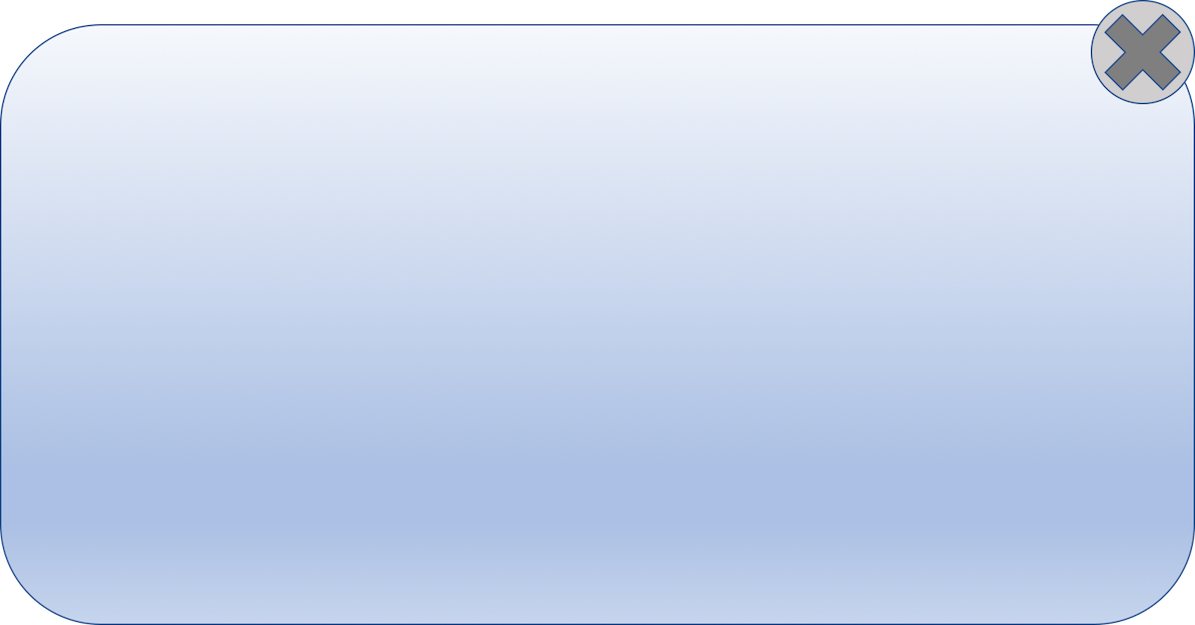
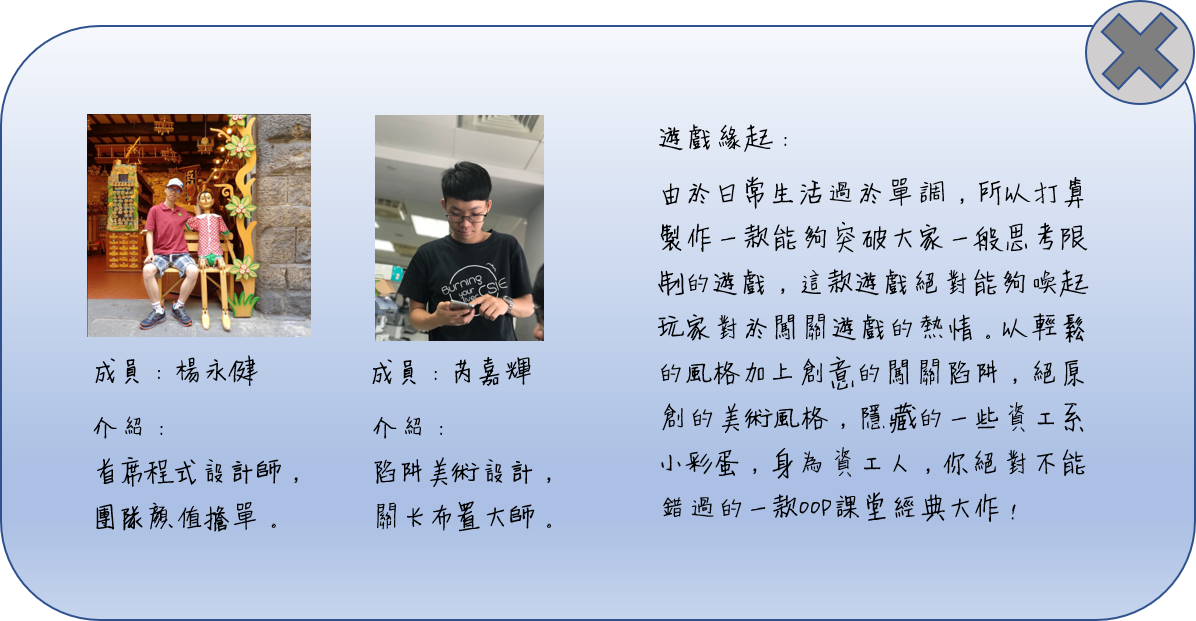
AboutScreen finish

diff --git a/js/AboutScreen.js b/js/AboutScreen.js
@@ -17,57 +17,19 @@ var AboutScreen = Framework.exClass(Framework.GameMainMenu,
         loadingProgress: function (ctx, requestInfo) 
         {
             //console.log(Framework.ResourceManager.getFinishedRequestPercent())
-            this.loading.draw(ctx);
-            ctx.font = '90px Arial';
-            ctx.textAlign = 'center';
-            ctx.fillStyle = 'white';
-            ctx.fillText(Math.round(requestInfo.percent) + '%', ctx.canvas.width / 2, ctx.canvas.height / 2 + 300);
+            this.loading.draw(ctx)
+            ctx.font = '90px Arial'
+            ctx.textAlign = 'center'
+            ctx.fillStyle = 'white'
+            ctx.fillText(Math.round(requestInfo.percent) + '%', ctx.canvas.width / 2, ctx.canvas.height / 2 + 300)
         },
         
         load: function () {
             this.matter = new Framework.Matter() 
 
-            this.backYellowGround = new Framework.Sprite(define.imagePath + 'background-yellow.png');
-            this.backGround = new Framework.Sprite(define.imagePath + 'background-AboutScreen.png');
-            // this.bagTitle = new Framework.Sprite(define.imagePath + 'bagTitlepic.png');
-            
-            this.lv1_clear = new Framework.Sprite(define.imagePath + 'clear.png');
-            this.lv1_unclear = new Framework.Sprite(define.imagePath + 'unclear.png');
-
-            this.lv2_clear = new Framework.Sprite(define.imagePath + 'clear.png');
-            this.lv2_unclear = new Framework.Sprite(define.imagePath + 'unclear.png');
-
-            this.lv3_clear = new Framework.Sprite(define.imagePath + 'clear.png');
-            this.lv3_unclear = new Framework.Sprite(define.imagePath + 'unclear.png');
-        
-            this.lv1Clear = false
-            this.lv2Clear = false
-            this.lv3Clear = false
-
-
-            this.txt_GoldSwordAtk = new Textbox()
-            this.txt_GoldSwordAtk._width = 60
-            this.txt_GoldSwordAtk._height = 0
-            this.txt_GoldSwordAtk._fontColor = 'black'
-            this.txt_GoldSwordAtk.position = {x:590, y:415}
-
-            this.txt_GoldSwordCount = new Textbox()
-            this.txt_GoldSwordCount._width = 60
-            this.txt_GoldSwordCount._height = 0
-            this.txt_GoldSwordCount._fontColor = 'black'
-            this.txt_GoldSwordCount.position = {x:590, y:480}
-
-            this.txt_KeyboardSwordAtk = new Textbox()
-            this.txt_KeyboardSwordAtk._width = 60
-            this.txt_KeyboardSwordAtk._height = 0
-            this.txt_KeyboardSwordAtk._fontColor = 'black'
-            this.txt_KeyboardSwordAtk.position = {x:590, y:545}
-
-            this.txt_KeyboardSwordCount = new Textbox()
-            this.txt_KeyboardSwordCount._width = 60
-            this.txt_KeyboardSwordCount._height = 0
-            this.txt_KeyboardSwordCount._fontColor = 'black'
-            this.txt_KeyboardSwordCount.position = {x:590, y:610}
+            this.backYellowGround = new Framework.Sprite(define.imagePath + 'background-yellow.png')
+            this.backGround = new Framework.Sprite(define.imagePath + 'background-AboutScreen.png')
+            this.AboutTitle = new Framework.Sprite(define.imagePath + 'AboutScreen-Title.png')
         },
 
 
@@ -79,31 +41,27 @@ var AboutScreen = Framework.exClass(Framework.GameMainMenu,
             this.backYellowGround.position = {
                 x: 0,
                 y: 0
-            };
-            this.backYellowGround.scale = 5;
+            }
+            this.backYellowGround.scale = 5
 
-            //背包框架
+            //框架
             this.backGround.position = {
                 x: Framework.Game.getCanvasWidth() / 8,
-                y: Framework.Game.getCanvasHeight() / 8
-            };
-            this.backGround.scale = 1;
+                y: Framework.Game.getCanvasHeight() / 8 + 80
+            }
+            this.backGround.scale = 1
+
+            //標題
+            this.AboutTitle.position =
+            {
+                x: Framework.Game.getCanvasWidth() / 5 - 30,
+                y: Framework.Game.getCanvasHeight() / 10 - 50
+            }
 
 
-            this.rootScene.attach(this.backYellowGround);
-            this.rootScene.attach(this.backGround);
-
-            
-
-            this.rectPosition = {
-                x: Framework.Game.getCanvasWidth() / 2 - 130,
-                y: Framework.Game.getCanvasHeight() / 2
-            };
-
-            //#region 關卡是否通關
-            
-            //#endregion
-            
+            this.rootScene.attach(this.backYellowGround)
+            this.rootScene.attach(this.backGround)
+            this.rootScene.attach(this.AboutTitle)
         },
 
         update: function () {
@@ -133,112 +91,14 @@ var AboutScreen = Framework.exClass(Framework.GameMainMenu,
         },
 
         click: function (e) {
-            console.log(e.x + " " + e.y)
             // 點擊關閉(返回關卡選單)
-            if (e.x >= 1275 && 
-                e.x <= 1390 && 
-                e.y >= 115 && 
-                e.y <= 230) 
+            if (e.x >= 1283 && 
+                e.x <= 1393 && 
+                e.y >= 190 && 
+                e.y <= 295) 
             {
                 Framework.Game.goToLevel("myMenu")
             }
-
-            //#region change clear
-            if (e.x >= 520 && 
-                e.x <= 685 && 
-                e.y >= 195 && 
-                e.y <= 240) 
-            {
-                Framework.Game.items[0].item = !(Framework.Game.items[0].item)
-            }
-
-            if (e.x >= 520 && 
-                e.x <= 685 && 
-                e.y >= 255 && 
-                e.y <= 300) 
-            {
-                Framework.Game.items[1].item = !(Framework.Game.items[1].item)
-            }
-
-            if (e.x >= 520 && 
-                e.x <= 685 && 
-                e.y >= 315 && 
-                e.y <= 360) 
-            {
-                Framework.Game.items[2].item = !(Framework.Game.items[2].item)
-            }
-            //#endregion
-       
-            //#region add atk & count
-            if (e.x >= 725 && 
-                e.x <= 765 && 
-                e.y >= 415 && 
-                e.y <= 455 && Framework.Game.goldSwordAtk < 100)
-            {
-                Framework.Game.goldSwordAtk += 5
-                console.log('goldSwordAtk += 5')
-            }
-            else if (e.x >= 780 && 
-                e.x <= 820 && 
-                e.y >= 415 && 
-                e.y <= 455 && Framework.Game.goldSwordAtk > 2)
-            {
-                Framework.Game.goldSwordAtk -= 5
-                console.log('goldSwordAtk -= 5')
-            }
-            //----------------------------------------------------
-            if (e.x >= 725 && 
-                e.x <= 765 && 
-                e.y >= 475 && 
-                e.y <= 515 && Framework.Game.goldSwordCount < 1000)
-            {
-                Framework.Game.goldSwordCount += 10
-                console.log(Framework.Game.goldSwordCount)
-                console.log('goldSwordCount += 10')
-            }
-            else if (e.x >= 780 && 
-                e.x <= 820 && 
-                e.y >= 475 && 
-                e.y <= 515 && Framework.Game.goldSwordCount >= 10)
-            {
-                Framework.Game.goldSwordCount -= 10
-                console.log('goldSwordCount -= 10')
-            }
-            //----------------------------------------------------
-            if (e.x >= 725 && 
-                e.x <= 765 && 
-                e.y >= 540 && 
-                e.y <= 580 && Framework.Game.keyboardAtk < 100)
-            {
-                Framework.Game.keyboardAtk += 5
-                console.log('keyboardAtk += 5')
-            }
-            else if (e.x >= 780 && 
-                e.x <= 820 && 
-                e.y >= 540 && 
-                e.y <= 580 && Framework.Game.keyboardAtk > 2)
-            {
-                Framework.Game.keyboardAtk -= 5
-                console.log('keyboardAtk -= 5')
-            }
-            //----------------------------------------------------
-            if (e.x >= 725 && 
-                e.x <= 765 && 
-                e.y >= 605 && 
-                e.y <= 645 && Framework.Game.keyboardCount < 1000)
-            {
-                Framework.Game.keyboardCount += 10
-                console.log('keyboardCount += 10')
-            }
-            else if (e.x >= 780 && 
-                e.x <= 820 && 
-                e.y >= 605 && 
-                e.y <= 645 && Framework.Game.keyboardCount > 10)
-            {
-                Framework.Game.keyboardCount -= 10
-                console.log('keyboardCount -= 10')
-            }
-            //#endregion
         },
 
         mousemove: function (e) 

diff --git a/js/CheatScreen.js b/js/CheatScreen.js
@@ -141,12 +141,11 @@ var CheatScreen = Framework.exClass(Framework.GameMainMenu,
 
         update: function () {
             //this.rootScene.update();一定要在第一行
-            
+            console.log()
             this.txt_GoldSwordAtk._value = Framework.Game.goldSwordAtk
             this.txt_GoldSwordCount._value = Framework.Game.goldSwordCount
             this.txt_KeyboardSwordAtk._text = Framework.Game.keyboardAtk
             this.txt_KeyboardSwordCount._text = Framework.Game.keyboardCount
-
 
             console.log(this.txt_GoldSwordAtk._value)
             //目前的Framework, 當任何一個GameObject不做attach時, 則必須要自行update
@@ -308,7 +307,7 @@ var CheatScreen = Framework.exClass(Framework.GameMainMenu,
                 e.y <= 455 && Framework.Game.goldSwordAtk < 100)
             {
                 Framework.Game.goldSwordAtk += 5
-                console.log('goldSwordAtk += 5')
+                console.log('goldSwordAtk += 5 : ' + Framework.Game.goldSwordAtk)
             }
             else if (e.x >= 780 && 
                 e.x <= 820 && 

diff --git a/js/Level2.js b/js/Level2.js
@@ -1108,7 +1108,7 @@ class Level2 extends Framework.Level
         {
             Framework.Game._goToLevelIs = ""
             Framework.Game.goToLevel("chooseLevel");
-            Framework.Game._levels.splice(3,1,{name : "level2", level : new Level2()})
+            Framework.Game._levels.splice(7,1,{name : "level2", level : new Level2()})
             Framework.Game.userIQ = 250
         }
     }

diff --git a/js/Level1.js b/js/Level1.js
@@ -4,7 +4,6 @@ class Level1 extends Framework.Level
 {
     constructor()
     {
-        console.log("Level1")
         super() // 繼承
 
         // 宣告this.matter 並建立物理世界MatterUtil.js
